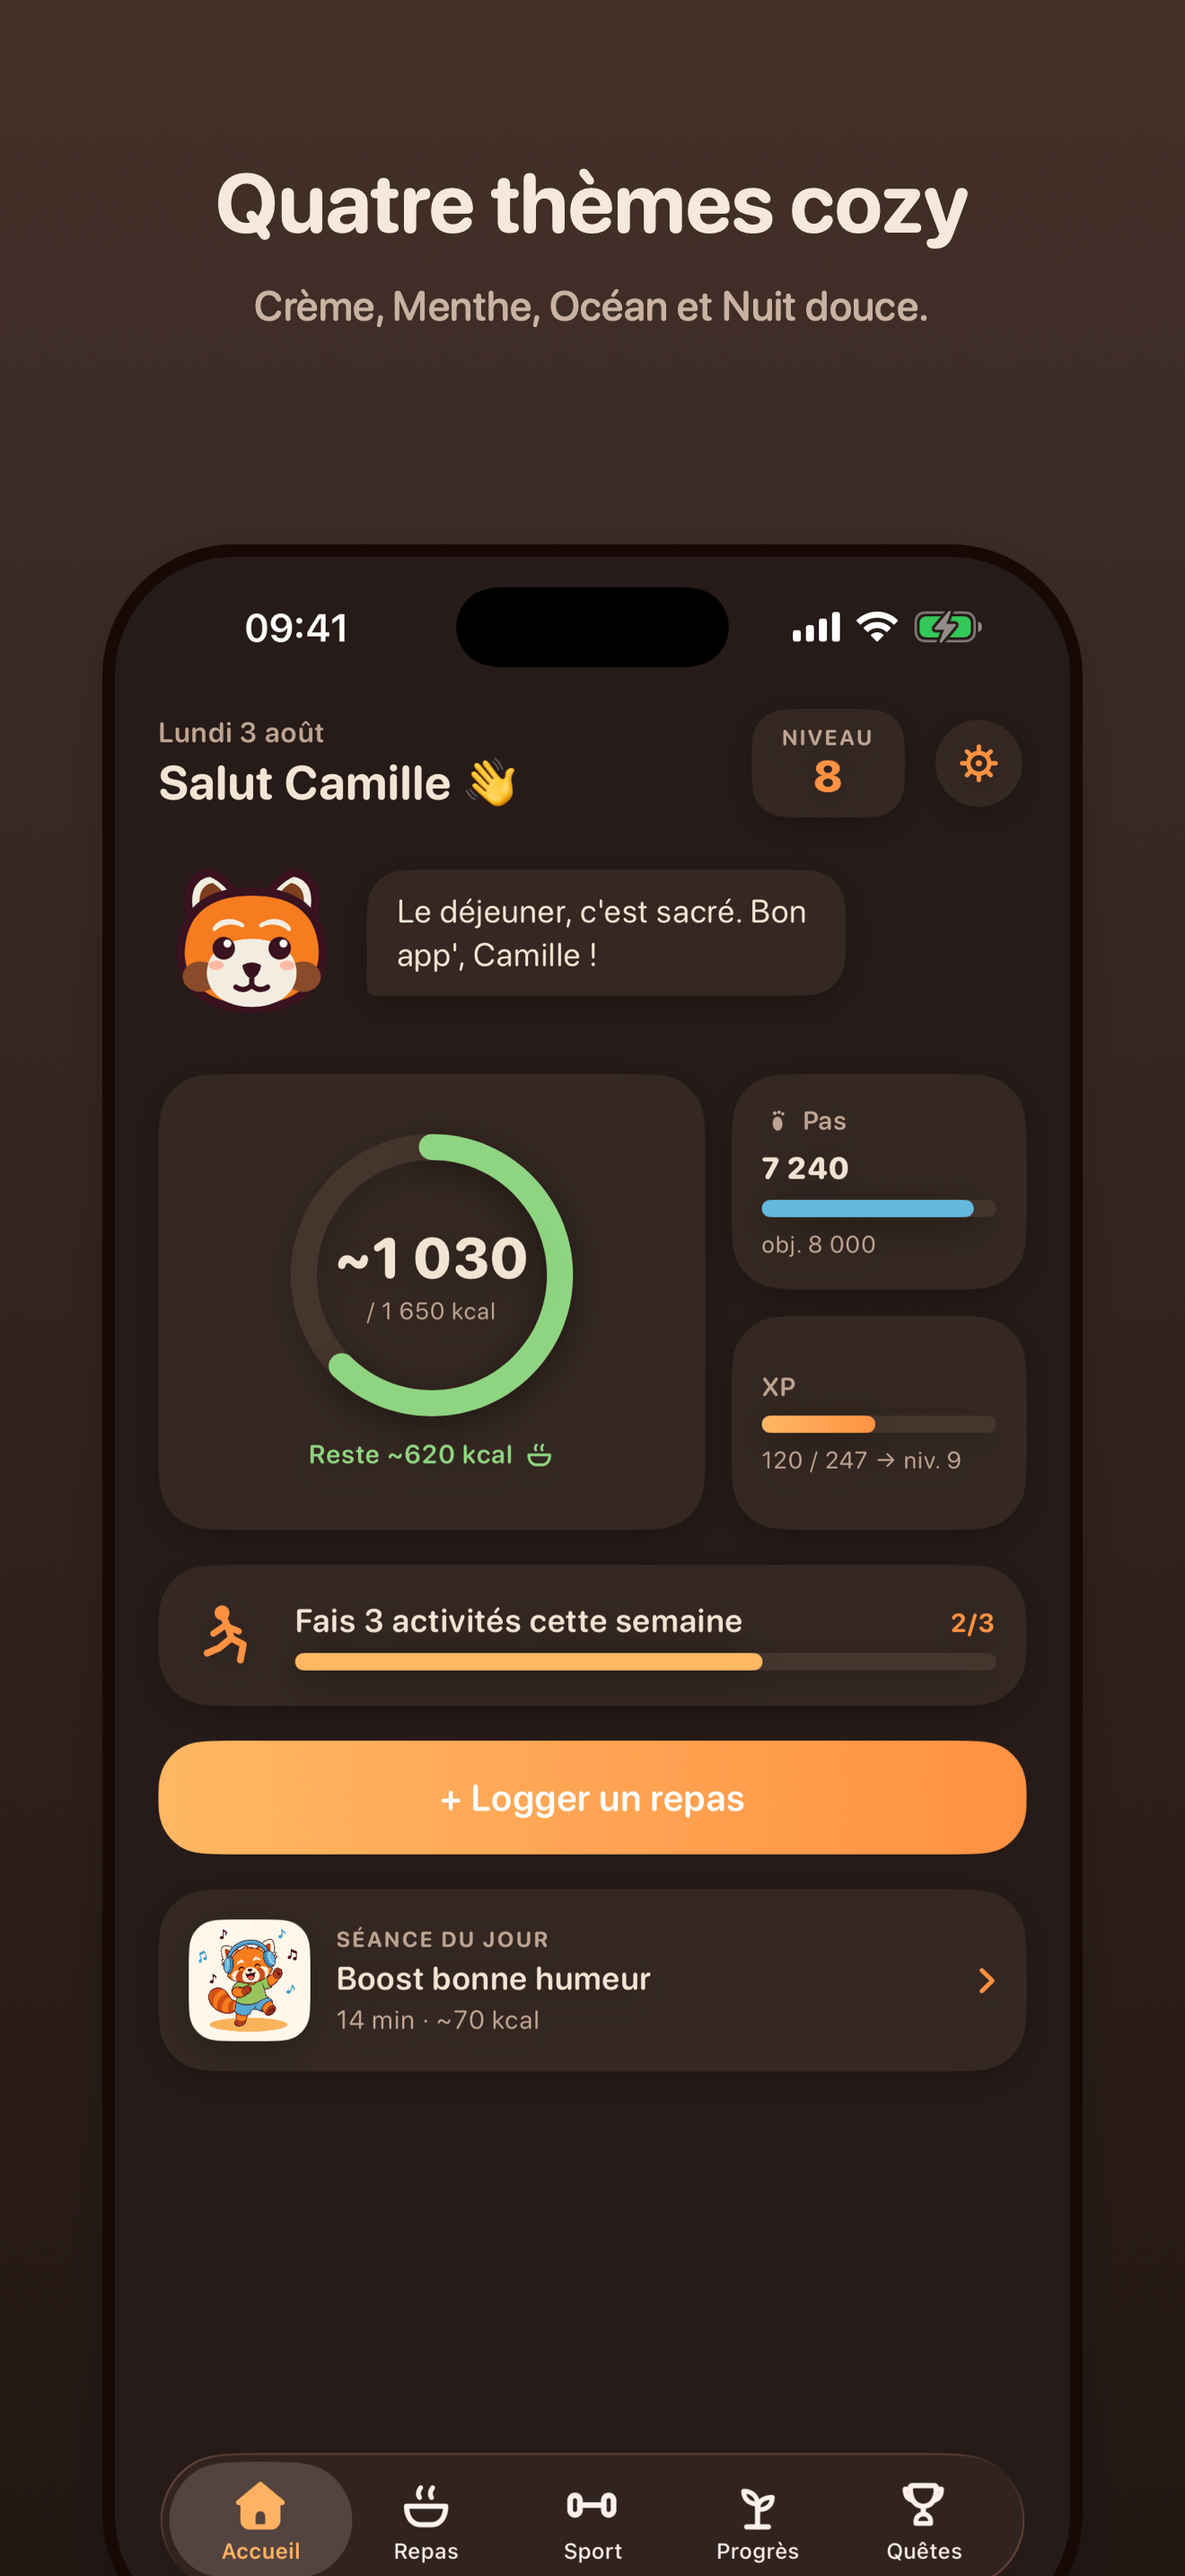
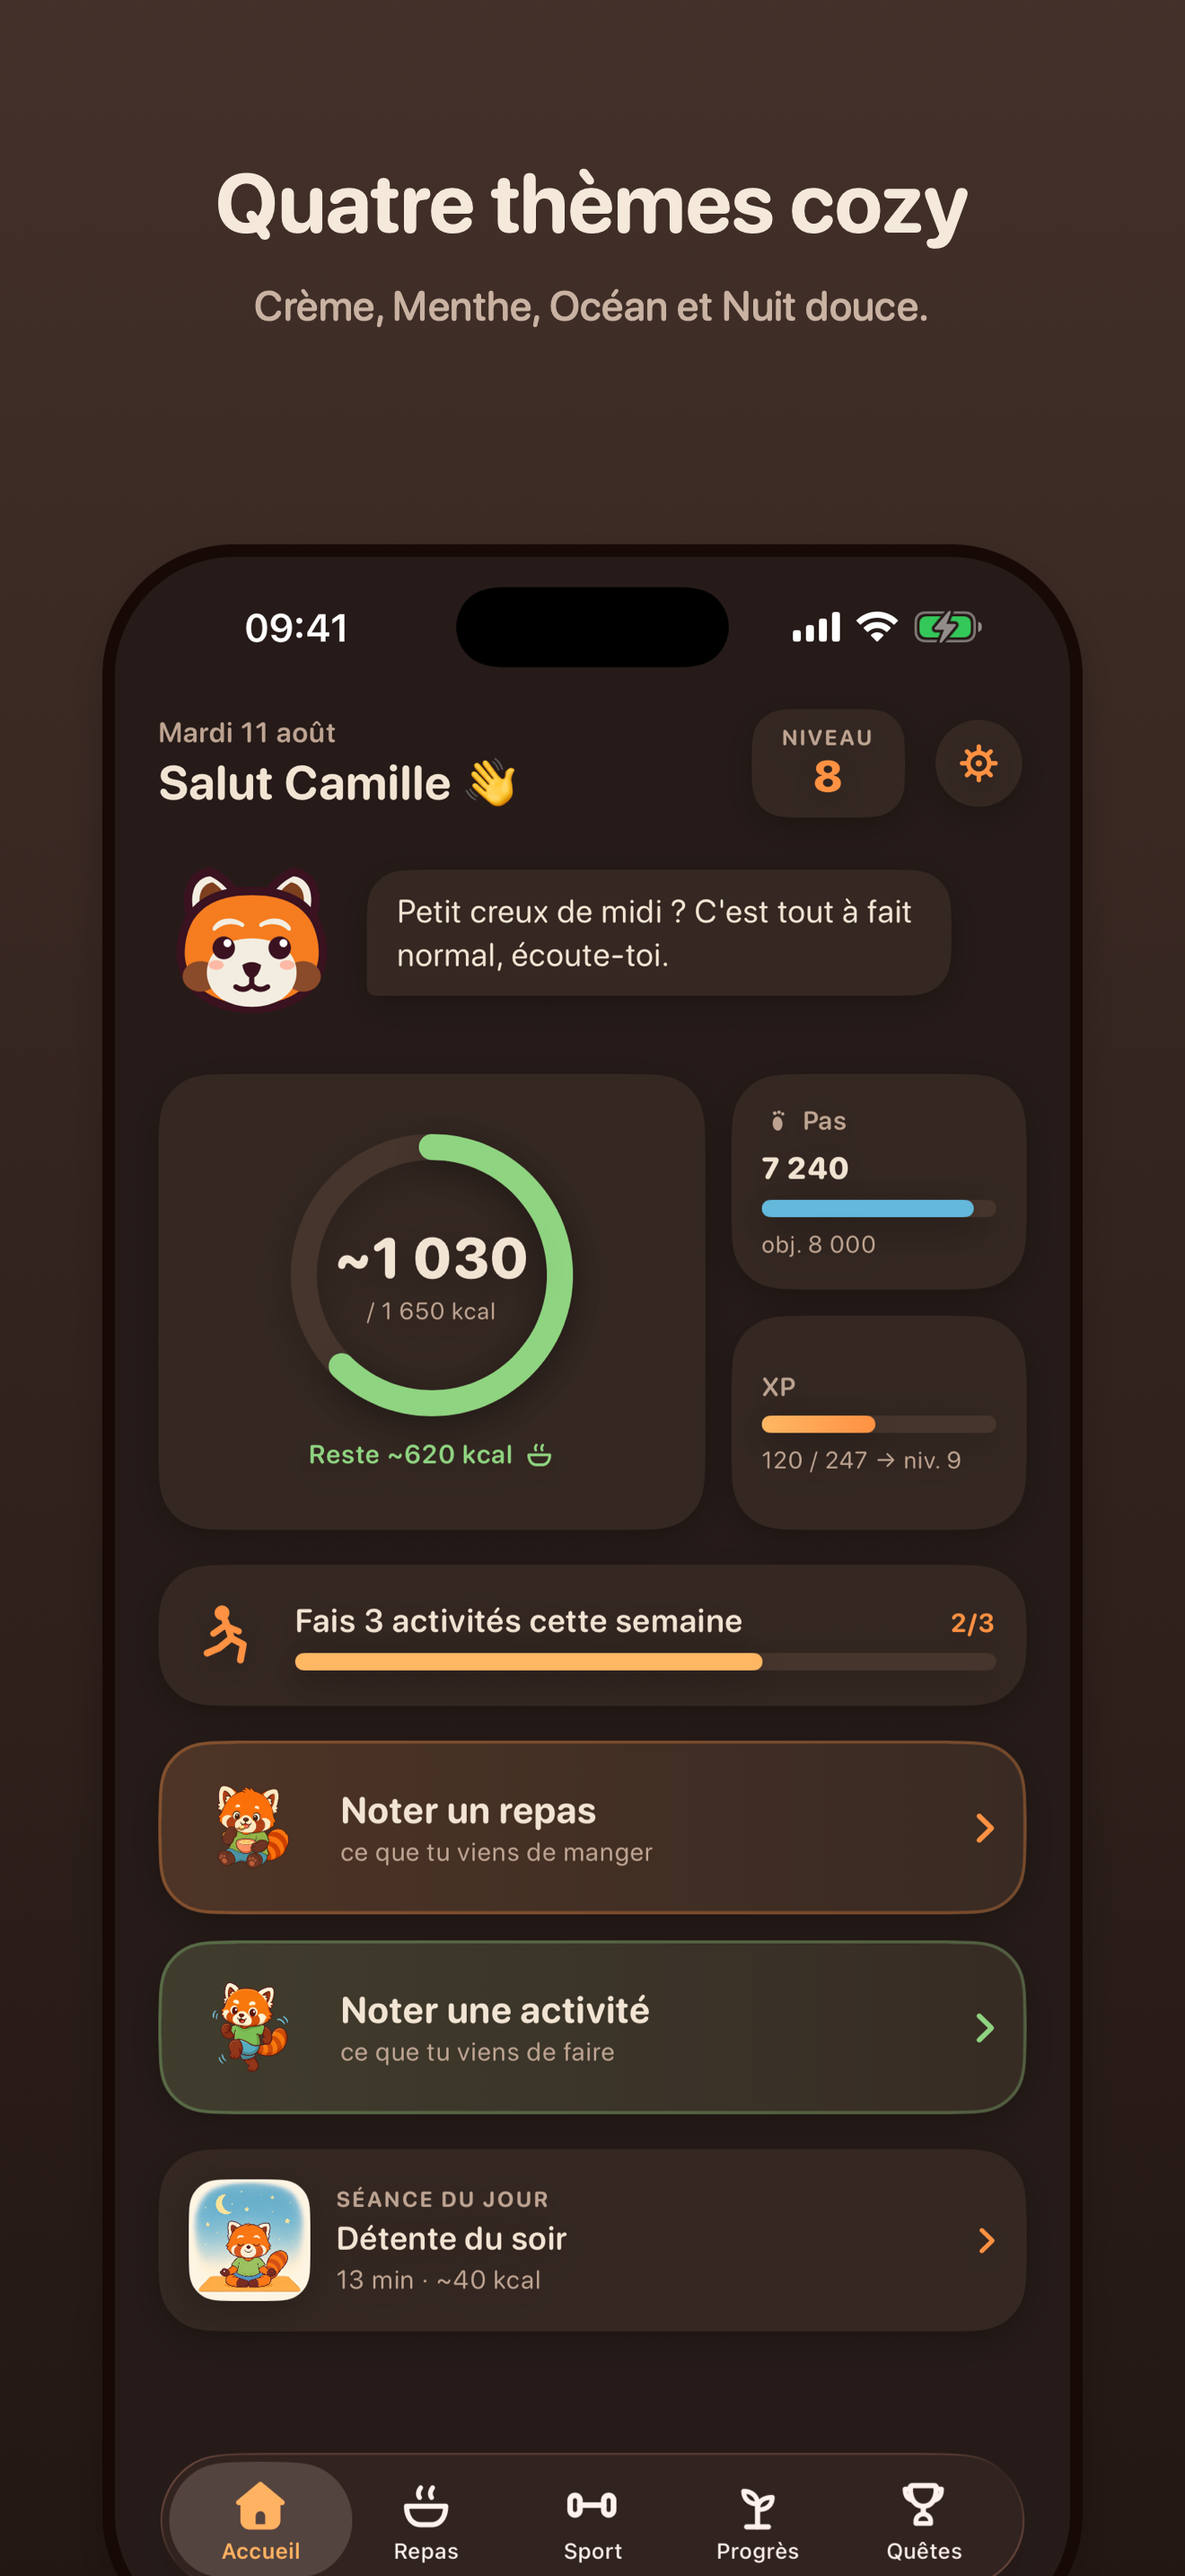
chore(store): captures et changelog de la 1.13
Les captures sont refaites parce que l'accueil a changé : « + Logger un
repas » y est remplacé par les deux boutons illustrés. Une fiche qui
montre un bouton qui n'existe plus est un motif de refus, et de toute
façon un mensonge.

Sept des huit captures bougent — seule « 02-meallog » est inchangée, la
feuille de saisie n'ayant pas été retouchée.

diff --git a/docs/appstore/fiche-app-store.md b/docs/appstore/fiche-app-store.md
@@ -69,10 +69,16 @@ Nivel est en français, conçu et développé en France, et son code est ouvert 
 Nivel n'est pas un dispositif médical et ne remplace pas l'avis d'un professionnel de santé.
 ```
 
-**Nouveautés de cette version** (4 000 max — première mise en vente)
+**Nouveautés de cette version** (4 000 max — version 1.13)
 
 ```
-Première version publique de Nivel. Bonne route, et sois doux avec toi-même.
+Six retours d'usage de la première semaine, dont deux corrections.
+
+• Le widget reste lisible quand l'écran d'accueil est en mode transparent ou teinté : Nivelito ne se réduit plus à une silhouette blanche.
+• Nouveau bouton « Noter une activité » sur l'accueil, pour déclarer ce que tu viens de faire sans passer par l'onglet Sport.
+• « Logger un repas » devient « Noter un repas », et le bouton est maintenant aussi dans l'onglet Repas.
+• Dans un repas en cours, un élément se retire d'un glissement vers la gauche.
+• Les annonces de trophée s'écartent d'un glissement vers le haut, quand tu n'as pas envie de les lire.
 ```
 
 **Mots-clés** (100 max — 94 utilisés, séparés par des virgules sans espace)
